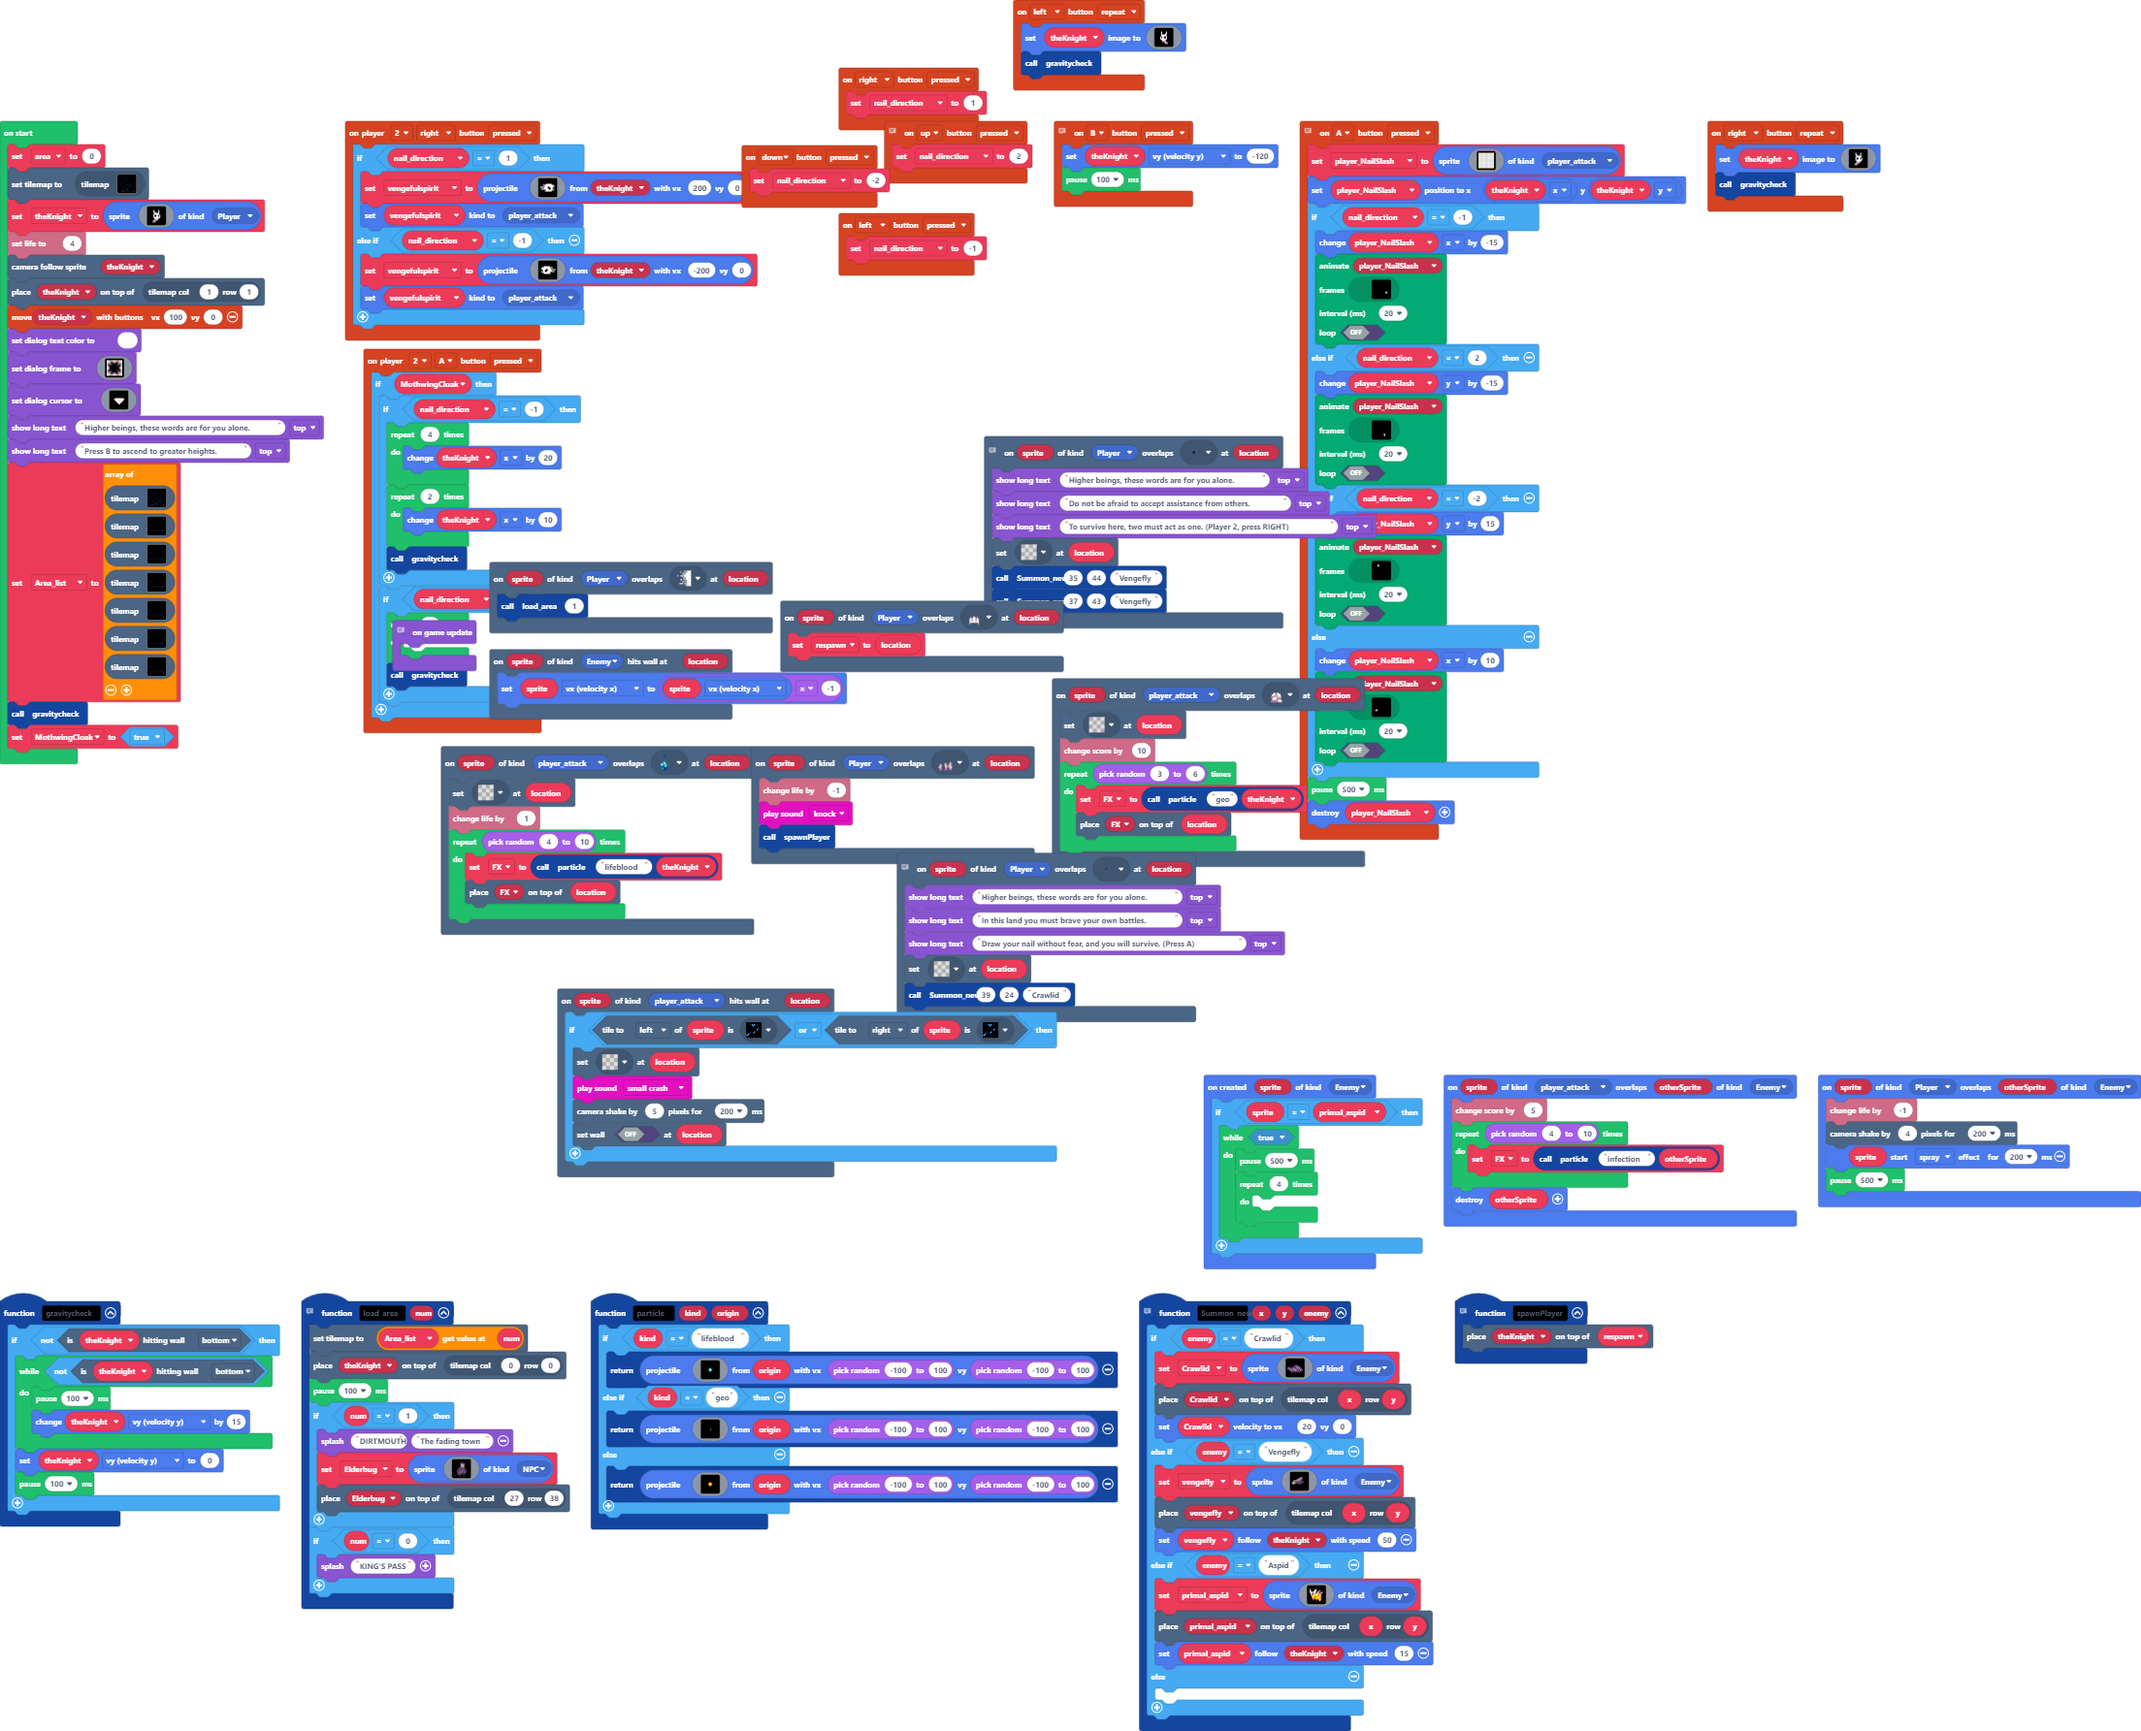
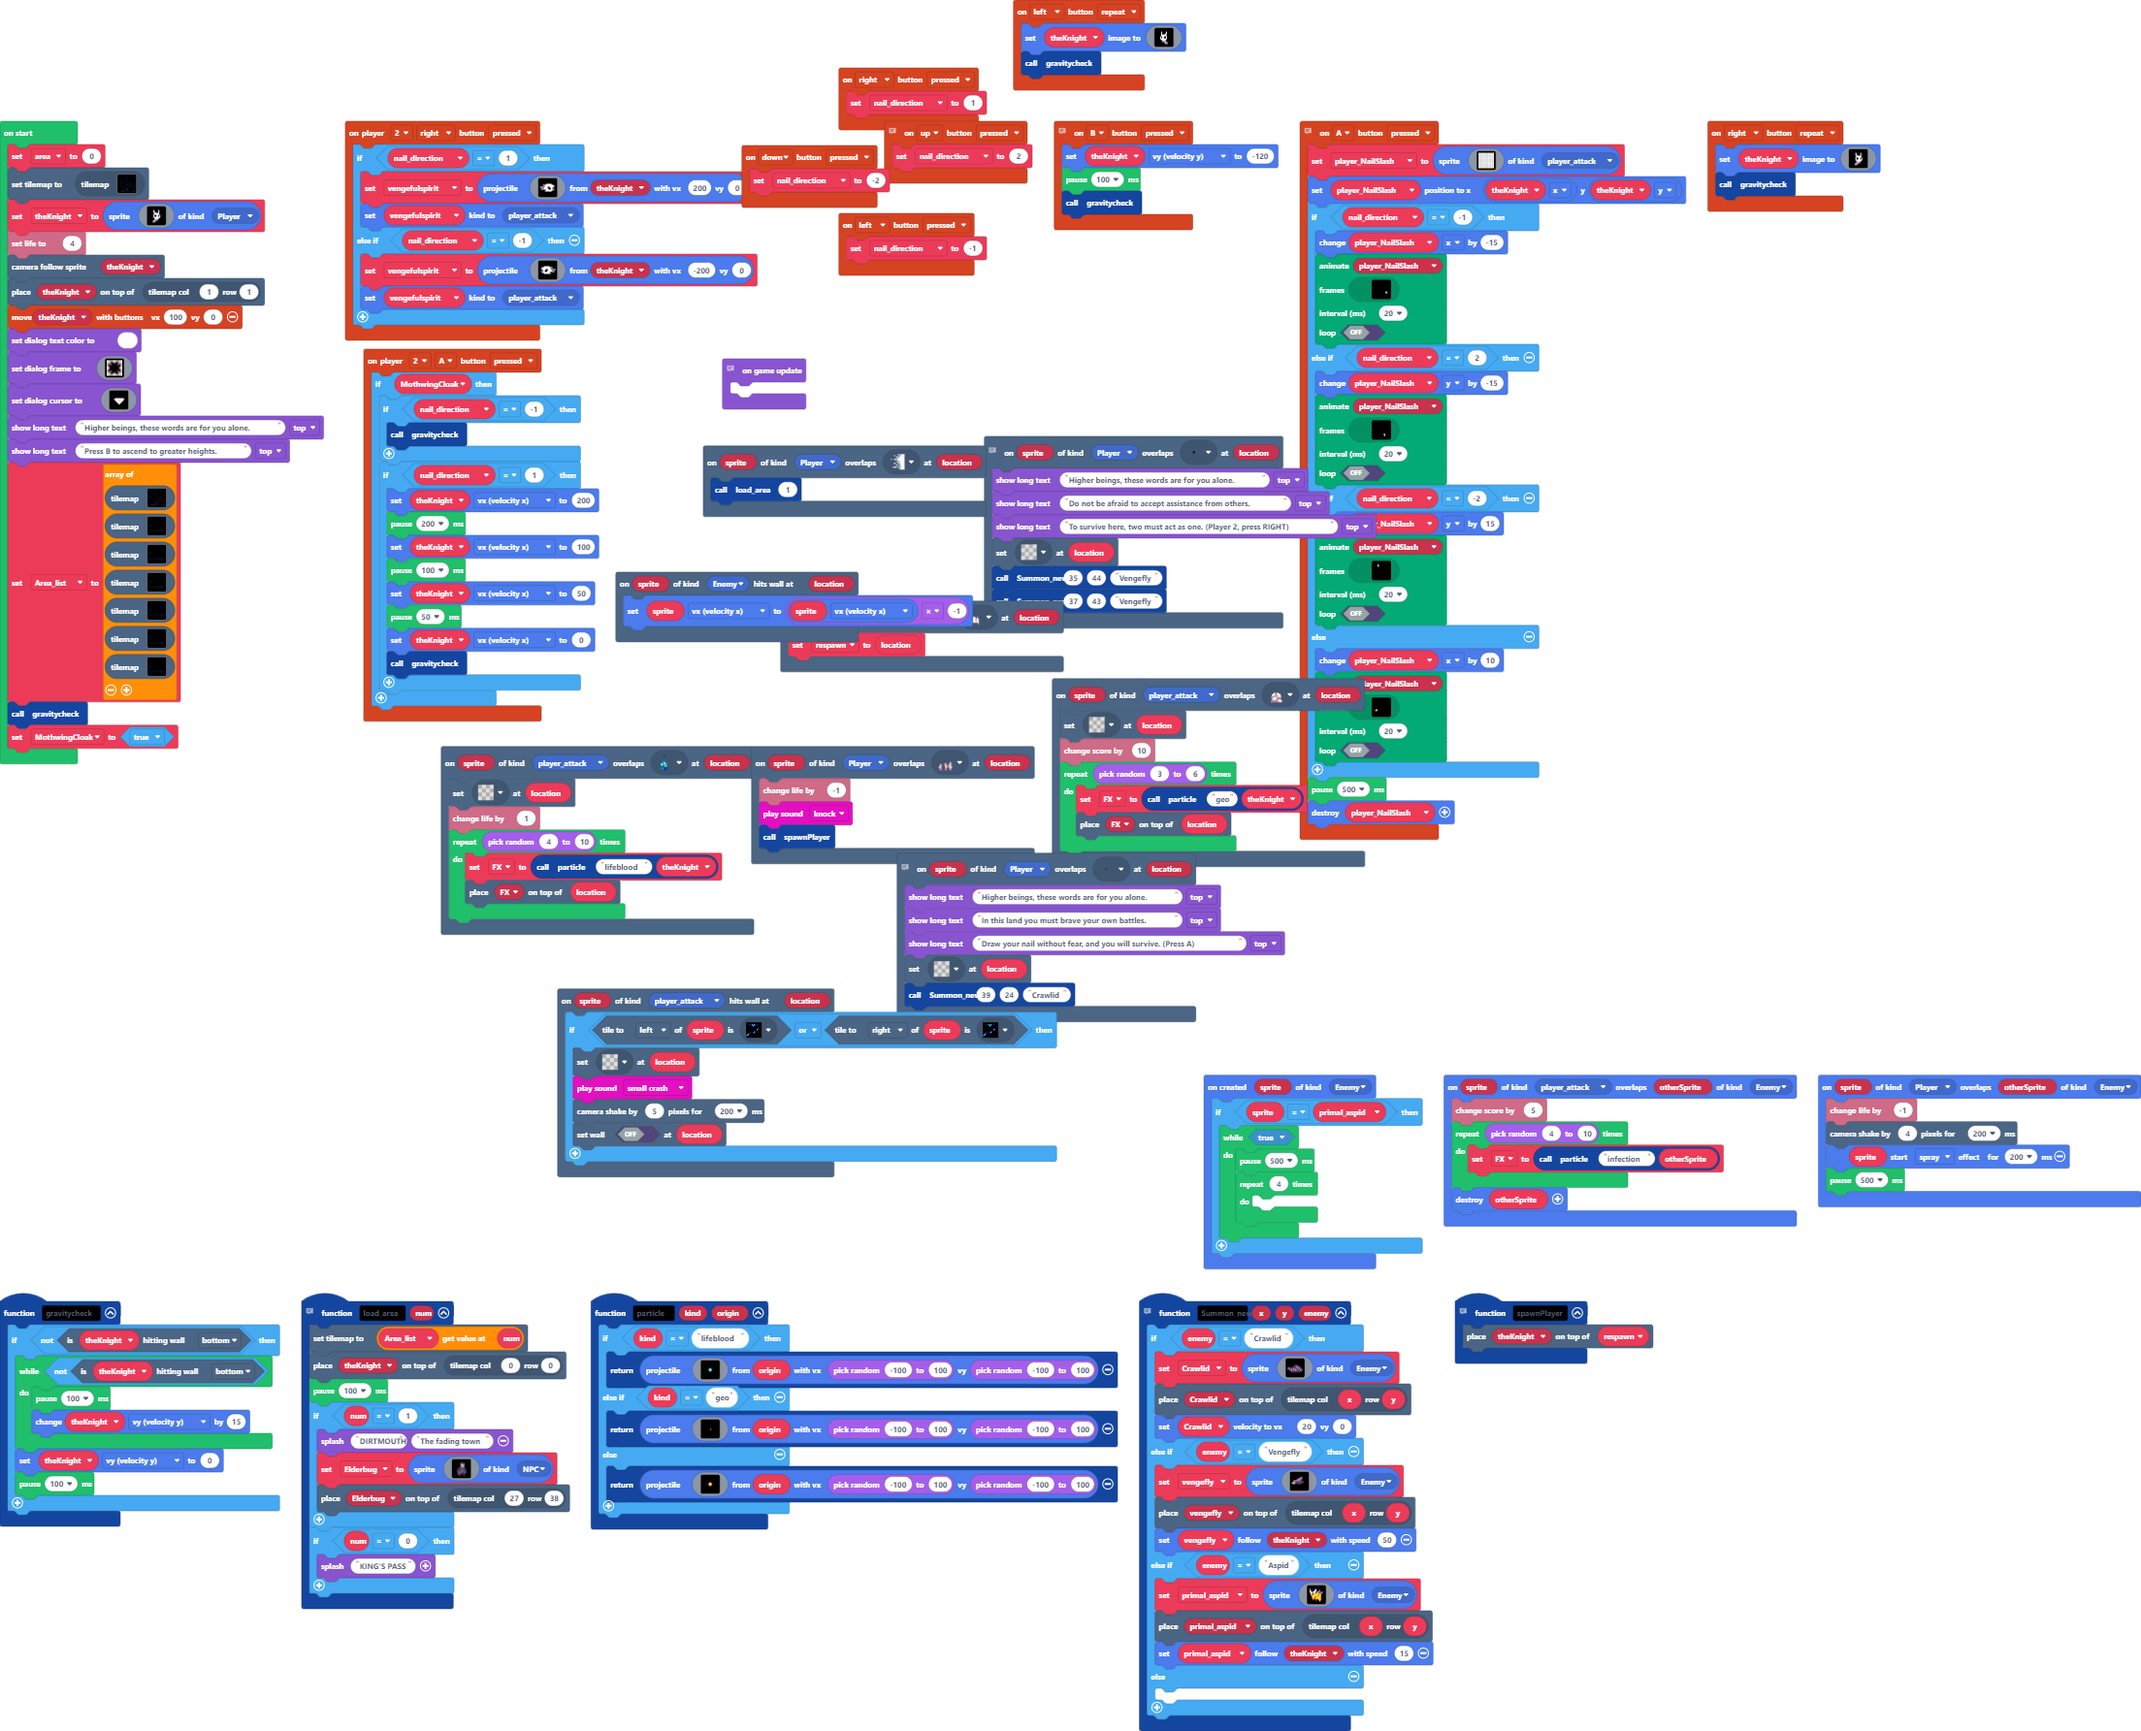
cloak works.... sometimes

Changed region(s): [[0.1541, 0.1849, 0.4622, 0.4314], [0.493, 0.0924, 0.5546, 0.1541]]

diff --git a/main.ts b/main.ts
@@ -51,6 +51,7 @@ function gravitycheck () {
 controller.B.onEvent(ControllerButtonEvent.Pressed, function () {
     theKnight.vy = -120
     pause(100)
+    gravitycheck()
 })
 // Nail slash.
 controller.A.onEvent(ControllerButtonEvent.Pressed, function () {
@@ -95,18 +96,16 @@ controller.A.onEvent(ControllerButtonEvent.Pressed, function () {
 controller.player2.onButtonEvent(ControllerButton.A, ControllerButtonEvent.Pressed, function () {
     if (MothwingCloak) {
         if (nail_direction == -1) {
-            for (let index = 0; index < 4; index++) {
-                theKnight.x += 20
-            }
-            for (let index = 0; index < 2; index++) {
-                theKnight.x += 10
-            }
             gravitycheck()
         }
         if (nail_direction == 1) {
-            for (let index = 0; index < 4; index++) {
-            	
-            }
+            theKnight.vx = 200
+            pause(200)
+            theKnight.vx = 100
+            pause(100)
+            theKnight.vx = 50
+            pause(50)
+            theKnight.vx = 0
             gravitycheck()
         }
     }
